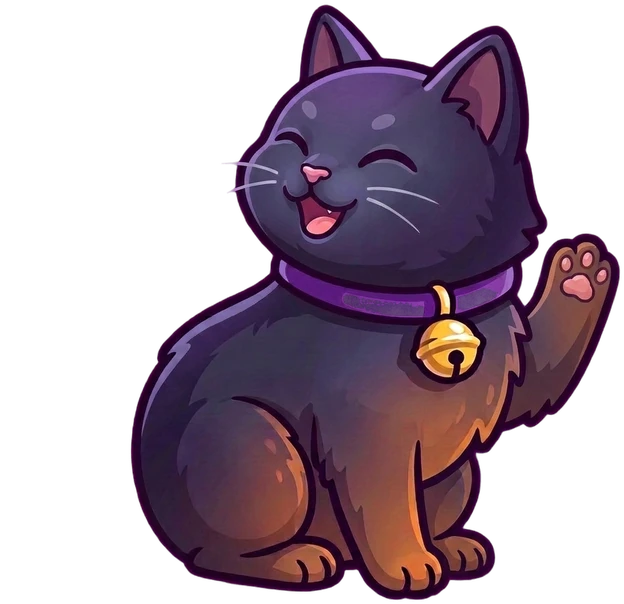
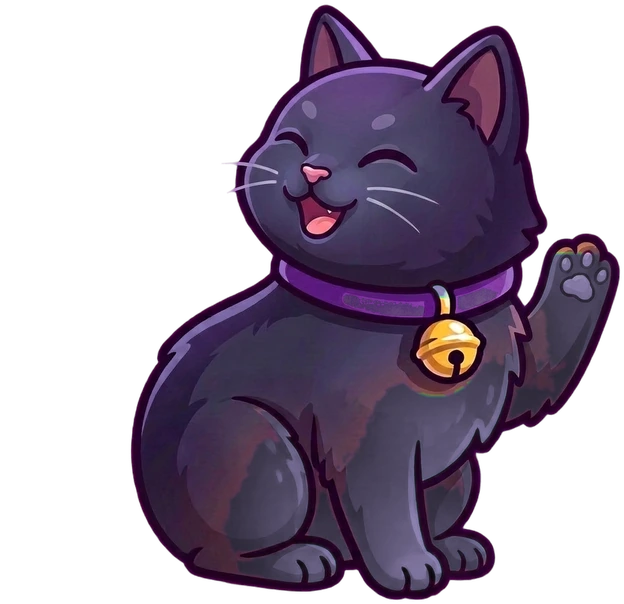
Cat lit from the hearth side, both eyes widen when startled; witch waves hello on the title and only her foot taps
Claude-Session: https://claude.ai/code/session_01HUNJumBGERKkkPNAkMEwWd

Changed region(s): [[0.3654, 0.4172, 0.9744, 0.9834], [0.7003, 0.4768, 0.7308, 0.5066]]

diff --git a/js/cauldron.js b/js/cauldron.js
@@ -74,7 +74,7 @@
     return im;
   }
   const SPR = {};
-  ["hut", "pot", "logs", "stones", "stones_front", "ladle", "ww_idle", "ww_wow", "ww_laugh", "ww_blink", "ww_cheer", "ww_wave", "ww_tap", "ct_idle", "ct_wow", "ct_blink", "ct_yawn", "ct_look", "ct_paw", "ct_tail", "flame0", "flame1", "flame2", "flame3", "flame4"].forEach((n) => { SPR[n] = loadImg(ART + n + ".webp"); });
+  ["hut", "pot", "logs", "stones", "stones_front", "ladle", "ww_idle", "ww_wow", "ww_laugh", "ww_blink", "ww_cheer", "ww_wave", "ww_wave2", "ww_tap", "ct_idle", "ct_wow", "ct_blink", "ct_yawn", "ct_look", "ct_paw", "ct_tail", "flame0", "flame1", "flame2", "flame3", "flame4"].forEach((n) => { SPR[n] = loadImg(ART + n + ".webp"); });
   const sprReady = () => Object.keys(SPR).every((k) => SPR[k].complete && SPR[k].naturalWidth);
   const sprWait = (cb) => {
     if (sprReady()) return cb();
@@ -1497,7 +1497,7 @@
       });
       this.breath = 1 + Math.sin(this.time * 1.9) * 0.006;
       // little idle gestures: the witch taps her foot or waves hello, the cat yawns or looks around
-      [["witch", ["tap", "wave"], 1.9], ["cat", ["yawn", "look"], 2.4]].forEach(([k, list, dur]) => {
+      [["witch", ["tap"], 1.9], ["cat", ["yawn", "look"], 2.4]].forEach(([k, list, dur]) => {
         const o = a[k];
         if (o.gest) { o.gT += dt; if (o.gT > o.gDur || o.pose !== "idle") o.gest = null; }
         o.gNext = (o.gNext === undefined ? (k === "witch" ? 4 : 6.5) : o.gNext) - dt;
@@ -1521,6 +1521,11 @@
       if (c.flT <= 0) { c.flT = rand(3, 6); c.flA = 1; }
       c.flA = Math.max(0, (c.flA || 0) - dt * 0.9);
     }
+    // the witch greets the player (a short wave), e.g. when a screen opens
+    greet(delay) {
+      const o = this.act.witch;
+      this._greetT = setTimeout(() => { if (this.running && o.pose === "idle") { o.gest = "wave"; o.gT = 0; o.gDur = 2.6; o.gNext = Math.max(o.gNext || 0, 6); } }, (delay || 0.5) * 1000);
+    }
     litSprite(im, key) {
       if (this.lit[key]) return this.lit[key];
       const c = document.createElement("canvas");
@@ -1528,9 +1533,19 @@
       const g = c.getContext("2d");
       g.drawImage(im, 0, 0);
       g.globalCompositeOperation = "source-atop";
-      const gr = g.createLinearGradient(0, c.height * 0.45, 0, c.height);
-      gr.addColorStop(0, "rgba(255,150,50,0)"); gr.addColorStop(1, "rgba(255,150,50,0.55)");
-      g.fillStyle = gr; g.fillRect(0, 0, c.width, c.height);
+      if (key[0] === "c") {
+        // the cat sits to the right of the hearth, so the firelight rakes across it from the left (and a little from below)
+        const gl = g.createLinearGradient(0, 0, c.width * 0.8, 0);
+        gl.addColorStop(0, "rgba(255,150,50,0.6)"); gl.addColorStop(1, "rgba(255,150,50,0)");
+        g.fillStyle = gl; g.fillRect(0, 0, c.width, c.height);
+        const gb = g.createLinearGradient(0, c.height * 0.6, 0, c.height);
+        gb.addColorStop(0, "rgba(255,150,50,0)"); gb.addColorStop(1, "rgba(255,150,50,0.18)");
+        g.fillStyle = gb; g.fillRect(0, 0, c.width, c.height);
+      } else {
+        const gr = g.createLinearGradient(0, c.height * 0.45, 0, c.height);
+        gr.addColorStop(0, "rgba(255,150,50,0)"); gr.addColorStop(1, "rgba(255,150,50,0.55)");
+        g.fillStyle = gr; g.fillRect(0, 0, c.width, c.height);
+      }
       this.lit[key] = c;
       return c;
     }
@@ -1551,9 +1566,9 @@
     drawWitch(ctx) {
       const o = this.act.witch;
       let pose = o.pose !== "idle" ? o.pose : (o.blinkT < 0 ? "blink" : "idle");
-      if (pose === "idle" && o.gest === "wave") pose = "wave";
+      if (pose === "idle" && o.gest === "wave") pose = (Math.floor(o.gT * 3.6) % 2 === 0) ? "wave" : "wave2";   // the hand swings side to side
       else if (pose === "idle" && o.gest === "tap") pose = (Math.floor(o.gT * 3.4) % 2 === 0) ? "tap" : "idle";
-      const imgs = { idle: SPR.ww_idle, blink: SPR.ww_blink, wow: SPR.ww_wow, laugh: SPR.ww_laugh, cheer: SPR.ww_cheer, wave: SPR.ww_wave, tap: SPR.ww_tap };
+      const imgs = { idle: SPR.ww_idle, blink: SPR.ww_blink, wow: SPR.ww_wow, laugh: SPR.ww_laugh, cheer: SPR.ww_cheer, wave: SPR.ww_wave, wave2: SPR.ww_wave2, tap: SPR.ww_tap };
       const im = imgs[pose] && imgs[pose].naturalWidth ? imgs[pose] : imgs.idle;
       if (!im || !im.naturalWidth) return;
       const hs = this.hopShape(o);

diff --git a/js/game.js b/js/game.js
@@ -172,7 +172,7 @@
       initWitch();
     }
     const c = cauldrons.title;
-    c.resize(); applyView(true); c.start();
+    c.resize(); applyView(true); c.start(); c.greet(0.7);
     const colors = POTIONS.filter((p) => !p.isSecret).map((p) => p.color);
     let i = 0;
     const cycle = () => {
